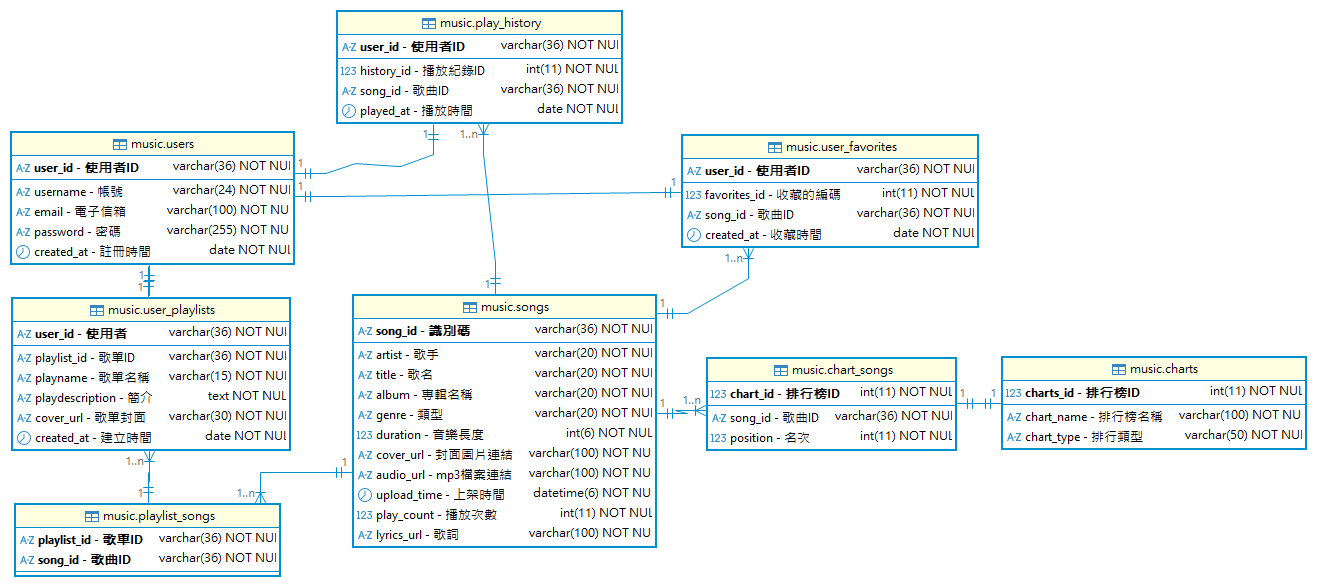
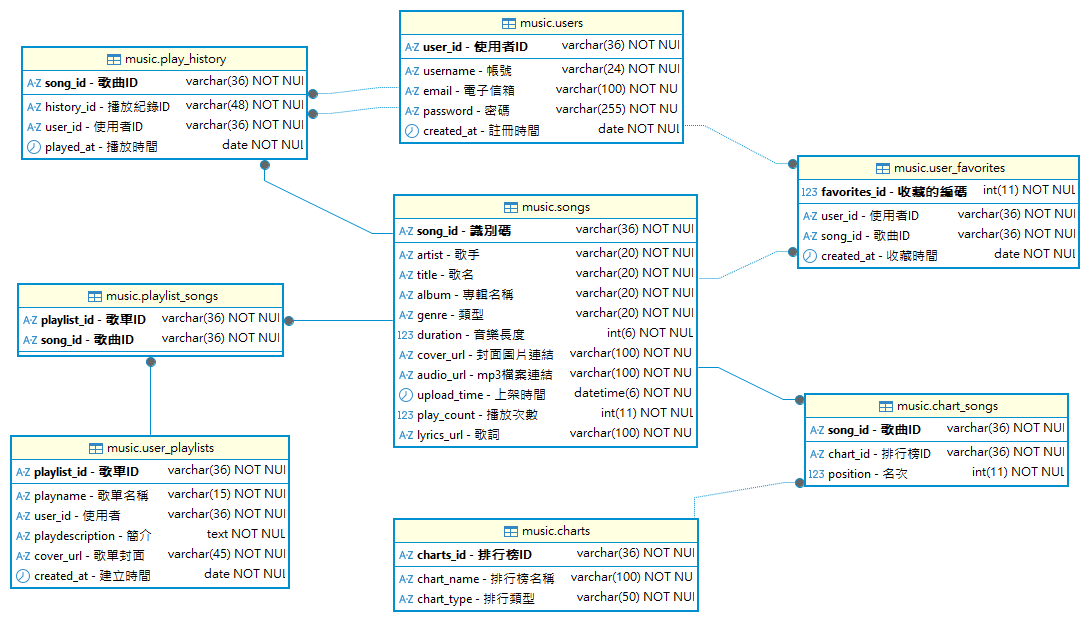
'修改ddl'

diff --git a/.github/instructions/mysql.instructions.md b/.github/instructions/mysql.instructions.md
@@ -6,75 +6,75 @@ applyTo: '*.sql'
 
 # MYSQL 的資料庫 DDL
 ```sql
-CREATE TABLE users (
-    user_id VARCHAR(36) NOT NULL PRIMARY KEY COMMENT '使用者ID',
-    username VARCHAR(24) NOT NULL COMMENT '帳號',
-    email VARCHAR(100) NOT NULL COMMENT '電子信箱',
-    password VARCHAR(255) NOT NULL COMMENT '密碼',
+CREATE TABLE music_users (
+    user_id    VARCHAR(36) NOT NULL PRIMARY KEY COMMENT '使用者ID',
+    username   VARCHAR(24) NOT NULL COMMENT '帳號',
+    email      VARCHAR(100) NOT NULL COMMENT '電子信箱',
+    password   VARCHAR(255) NOT NULL COMMENT '密碼',
     created_at DATE NOT NULL COMMENT '註冊時間'
 );
 
-CREATE TABLE songs (
-    song_id VARCHAR(36) NOT NULL PRIMARY KEY COMMENT '歌曲ID',
-    artist VARCHAR(20) NOT NULL COMMENT '歌手',
-    title VARCHAR(20) NOT NULL COMMENT '歌名',
-    album VARCHAR(20) NOT NULL COMMENT '專輯名稱',
-    genre VARCHAR(20) NOT NULL COMMENT '類型',
-    duration INT(6) NOT NULL COMMENT '音樂長度',
-    cover_url VARCHAR(100) NOT NULL COMMENT '封面圖片連結',
-    audio_url VARCHAR(100) NOT NULL COMMENT 'mp3檔案連結',
-    upload_time DATETIME NOT NULL COMMENT '上傳時間',
-    play_count INT(11) NOT NULL COMMENT '播放次數',
-    lyrics_url VARCHAR(100) NOT NULL COMMENT '歌詞連結'
+CREATE TABLE music_songs (
+    song_id     VARCHAR(36) NOT NULL PRIMARY KEY COMMENT '歌曲ID',
+    artist      VARCHAR(20) NOT NULL COMMENT '歌手',
+    title       VARCHAR(20) NOT NULL COMMENT '歌名',
+    album       VARCHAR(20) NOT NULL COMMENT '專輯名稱',
+    genre       VARCHAR(20) NOT NULL COMMENT '類型',
+    duration    INT(6) NOT NULL COMMENT '音樂長度',
+    cover_url   VARCHAR(100) NOT NULL COMMENT '封面圖片連結',
+    audio_url   VARCHAR(100) NOT NULL COMMENT 'mp3檔案連結',
+    upload_time DATETIME NOT NULL COMMENT '上架時間',
+    play_count  INT(11) NOT NULL COMMENT '播放次數',
+    lyrics_url  VARCHAR(100) NOT NULL COMMENT '歌詞'
 );
 
-CREATE TABLE play_history (
-    history_id INT(11) NOT NULL AUTO_INCREMENT PRIMARY KEY COMMENT '播放紀錄ID',
-    user_id VARCHAR(36) NOT NULL COMMENT '使用者ID',
-    song_id VARCHAR(36) NOT NULL COMMENT '歌曲ID',
-    played_at DATE NOT NULL COMMENT '播放時間',
-    FOREIGN KEY (user_id) REFERENCES music_users(user_id),
-    FOREIGN KEY (song_id) REFERENCES music_songs(song_id)
-);
-
-CREATE TABLE user_favorites (
-    favorites_id INT(11) NOT NULL AUTO_INCREMENT PRIMARY KEY COMMENT '收藏的編碼',
-    user_id VARCHAR(36) NOT NULL COMMENT '使用者ID',
-    song_id VARCHAR(36) NOT NULL COMMENT '歌曲ID',
-    created_at DATE NOT NULL COMMENT '收藏時間'
-    FOREIGN KEY (user_id) REFERENCES music_users(user_id),
-    FOREIGN KEY (song_id) REFERENCES music_songs(song_id)
-);
-
-CREATE TABLE user_playlists (
-    playlist_id VARCHAR(36) NOT NULL PRIMARY KEY COMMENT '歌單ID',
-    user_id VARCHAR(36) NOT NULL COMMENT '使用者',
-    playname VARCHAR(15) NOT NULL COMMENT '歌單名稱',
-    playdescription TEXT NOT NULL COMMENT '簡介',
-    cover_url VARCHAR(30) NOT NULL COMMENT '歌單封面',
-    created_at DATE NOT NULL COMMENT '建立時間',
+CREATE TABLE music_user_playlists (
+    playlist_id    VARCHAR(36) NOT NULL PRIMARY KEY COMMENT '歌單ID',
+    playname       VARCHAR(15) NOT NULL COMMENT '歌單名稱',
+    user_id        VARCHAR(36) NOT NULL COMMENT '使用者ID',
+    playdescription TEXT COMMENT '簡介',
+    cover_url      VARCHAR(45) NOT NULL COMMENT '歌單封面',
+    created_at     DATE NOT NULL COMMENT '建立時間',
     FOREIGN KEY (user_id) REFERENCES music_users(user_id)
 );
 
-CREATE TABLE playlist_songs (
+CREATE TABLE music_playlist_songs (
     playlist_id VARCHAR(36) NOT NULL COMMENT '歌單ID',
-    song_id VARCHAR(36) NOT NULL COMMENT '歌曲ID',
+    song_id     VARCHAR(36) NOT NULL COMMENT '歌曲ID',
     PRIMARY KEY (playlist_id, song_id),
     FOREIGN KEY (playlist_id) REFERENCES music_user_playlists(playlist_id),
     FOREIGN KEY (song_id) REFERENCES music_songs(song_id)
 );
 
-CREATE TABLE charts (
-    charts_id VARCHAR(36) NOT NULL PRIMARY KEY COMMENT '排行榜ID',
-    chart_name VARCHAR(100) NOT NULL COMMENT '排行榜名稱',
+CREATE TABLE music_play_history (
+    song_id    VARCHAR(36) NOT NULL COMMENT '歌曲ID',
+    history_id VARCHAR(48) NOT NULL PRIMARY KEY COMMENT '播放紀錄ID',
+    user_id    VARCHAR(36) NOT NULL COMMENT '使用者ID',
+    played_at  DATE NOT NULL COMMENT '播放時間',
+    FOREIGN KEY (song_id) REFERENCES music_songs(song_id),
+    FOREIGN KEY (user_id) REFERENCES music_users(user_id)
+);
+
+CREATE TABLE music_user_favorites (
+    favorites_id INT(11) NOT NULL AUTO_INCREMENT PRIMARY KEY COMMENT '收藏的編碼',
+    user_id      VARCHAR(36) NOT NULL COMMENT '使用者ID',
+    song_id      VARCHAR(36) NOT NULL COMMENT '歌曲ID',
+    created_at   DATE NOT NULL COMMENT '收藏時間',
+    FOREIGN KEY (user_id) REFERENCES music_users(user_id),
+    FOREIGN KEY (song_id) REFERENCES music_songs(song_id)
+);
+
+CREATE TABLE music_charts (
+    chart_id   VARCHAR(36) NOT NULL PRIMARY KEY COMMENT '排行榜ID',
+    chart_name VARCHAR(20) NOT NULL COMMENT '排行榜名稱',
     chart_type VARCHAR(50) NOT NULL COMMENT '排行榜型'
 );
 
-CREATE TABLE chart_songs (
-    chart_id VARCHAR(36) NOT NULL COMMENT '排行榜ID',
-    song_id VARCHAR(36) NOT NULL COMMENT '歌曲ID',
-    position INT(11) NOT NULL COMMENT '名次',
-    PRIMARY KEY (chart_id, song_id),
-    FOREIGN KEY (chart_id) REFERENCES music_charts(charts_id),
-    FOREIGN KEY (song_id) REFERENCES music_songs(song_id)
+CREATE TABLE music_chart_songs (
+    song_id   VARCHAR(36) NOT NULL COMMENT '歌曲ID',
+    chart_id  VARCHAR(36) NOT NULL COMMENT '排行榜ID',
+    position  INT(11) NOT NULL COMMENT '名次',
+    PRIMARY KEY (song_id, chart_id),
+    FOREIGN KEY (song_id) REFERENCES music_songs(song_id),
+    FOREIGN KEY (chart_id) REFERENCES music_charts(chart_id)
 );

diff --git a/.github/instructions/php.instructions.md b/.github/instructions/php.instructions.md
@@ -20,75 +20,75 @@ JSON
 
 # MYSQL 的資料庫 DDL
 ```sql
-CREATE TABLE users (
-    user_id VARCHAR(36) NOT NULL PRIMARY KEY COMMENT '使用者ID',
-    username VARCHAR(24) NOT NULL COMMENT '帳號',
-    email VARCHAR(100) NOT NULL COMMENT '電子信箱',
-    password VARCHAR(255) NOT NULL COMMENT '密碼',
+CREATE TABLE music_users (
+    user_id    VARCHAR(36) NOT NULL PRIMARY KEY COMMENT '使用者ID',
+    username   VARCHAR(24) NOT NULL COMMENT '帳號',
+    email      VARCHAR(100) NOT NULL COMMENT '電子信箱',
+    password   VARCHAR(255) NOT NULL COMMENT '密碼',
     created_at DATE NOT NULL COMMENT '註冊時間'
 );
 
-CREATE TABLE songs (
-    song_id VARCHAR(36) NOT NULL PRIMARY KEY COMMENT '歌曲ID',
-    artist VARCHAR(20) NOT NULL COMMENT '歌手',
-    title VARCHAR(20) NOT NULL COMMENT '歌名',
-    album VARCHAR(20) NOT NULL COMMENT '專輯名稱',
-    genre VARCHAR(20) NOT NULL COMMENT '類型',
-    duration INT(6) NOT NULL COMMENT '音樂長度',
-    cover_url VARCHAR(100) NOT NULL COMMENT '封面圖片連結',
-    audio_url VARCHAR(100) NOT NULL COMMENT 'mp3檔案連結',
-    upload_time DATETIME NOT NULL COMMENT '上傳時間',
-    play_count INT(11) NOT NULL COMMENT '播放次數',
-    lyrics_url VARCHAR(100) NOT NULL COMMENT '歌詞連結'
+CREATE TABLE music_songs (
+    song_id     VARCHAR(36) NOT NULL PRIMARY KEY COMMENT '歌曲ID',
+    artist      VARCHAR(20) NOT NULL COMMENT '歌手',
+    title       VARCHAR(20) NOT NULL COMMENT '歌名',
+    album       VARCHAR(20) NOT NULL COMMENT '專輯名稱',
+    genre       VARCHAR(20) NOT NULL COMMENT '類型',
+    duration    INT(6) NOT NULL COMMENT '音樂長度',
+    cover_url   VARCHAR(100) NOT NULL COMMENT '封面圖片連結',
+    audio_url   VARCHAR(100) NOT NULL COMMENT 'mp3檔案連結',
+    upload_time DATETIME NOT NULL COMMENT '上架時間',
+    play_count  INT(11) NOT NULL COMMENT '播放次數',
+    lyrics_url  VARCHAR(100) NOT NULL COMMENT '歌詞'
 );
 
-CREATE TABLE play_history (
-    history_id VARCHAR(48) NOT NULL PRIMARY KEY COMMENT '播放紀錄ID',
-    user_id VARCHAR(36) NOT NULL COMMENT '使用者ID',
-    song_id VARCHAR(36) NOT NULL COMMENT '歌曲ID',
-    played_at DATE NOT NULL COMMENT '播放時間',
-    FOREIGN KEY (user_id) REFERENCES music_users(user_id),
-    FOREIGN KEY (song_id) REFERENCES music_songs(song_id)
-);
-
-CREATE TABLE user_favorites (
-    favorites_id INT(11) NOT NULL AUTO_INCREMENT PRIMARY KEY COMMENT '收藏的編碼',
-    user_id VARCHAR(36) NOT NULL COMMENT '使用者ID',
-    song_id VARCHAR(36) NOT NULL COMMENT '歌曲ID',
-    created_at DATE NOT NULL COMMENT '收藏時間'
-    FOREIGN KEY (user_id) REFERENCES music_users(user_id),
-    FOREIGN KEY (song_id) REFERENCES music_songs(song_id)
-);
-
-CREATE TABLE user_playlists (
-    playlist_id VARCHAR(36) NOT NULL PRIMARY KEY COMMENT '歌單ID',
-    user_id VARCHAR(36) NOT NULL COMMENT '使用者',
-    playname VARCHAR(15) NOT NULL COMMENT '歌單名稱',
-    playdescription TEXT NOT NULL COMMENT '簡介',
-    cover_url VARCHAR(30) NOT NULL COMMENT '歌單封面',
-    created_at DATE NOT NULL COMMENT '建立時間',
+CREATE TABLE music_user_playlists (
+    playlist_id    VARCHAR(36) NOT NULL PRIMARY KEY COMMENT '歌單ID',
+    playname       VARCHAR(15) NOT NULL COMMENT '歌單名稱',
+    user_id        VARCHAR(36) NOT NULL COMMENT '使用者ID',
+    playdescription TEXT COMMENT '簡介',
+    cover_url      VARCHAR(45) NOT NULL COMMENT '歌單封面',
+    created_at     DATE NOT NULL COMMENT '建立時間',
     FOREIGN KEY (user_id) REFERENCES music_users(user_id)
 );
 
-CREATE TABLE playlist_songs (
+CREATE TABLE music_playlist_songs (
     playlist_id VARCHAR(36) NOT NULL COMMENT '歌單ID',
-    song_id VARCHAR(36) NOT NULL COMMENT '歌曲ID',
+    song_id     VARCHAR(36) NOT NULL COMMENT '歌曲ID',
     PRIMARY KEY (playlist_id, song_id),
     FOREIGN KEY (playlist_id) REFERENCES music_user_playlists(playlist_id),
     FOREIGN KEY (song_id) REFERENCES music_songs(song_id)
 );
 
-CREATE TABLE charts (
-    charts_id VARCHAR(36) NOT NULL PRIMARY KEY COMMENT '排行榜ID',
-    chart_name VARCHAR(100) NOT NULL COMMENT '排行榜名稱',
+CREATE TABLE music_play_history (
+    song_id    VARCHAR(36) NOT NULL COMMENT '歌曲ID',
+    history_id VARCHAR(48) NOT NULL PRIMARY KEY COMMENT '播放紀錄ID',
+    user_id    VARCHAR(36) NOT NULL COMMENT '使用者ID',
+    played_at  DATE NOT NULL COMMENT '播放時間',
+    FOREIGN KEY (song_id) REFERENCES music_songs(song_id),
+    FOREIGN KEY (user_id) REFERENCES music_users(user_id)
+);
+
+CREATE TABLE music_user_favorites (
+    favorites_id INT(11) NOT NULL AUTO_INCREMENT PRIMARY KEY COMMENT '收藏的編碼',
+    user_id      VARCHAR(36) NOT NULL COMMENT '使用者ID',
+    song_id      VARCHAR(36) NOT NULL COMMENT '歌曲ID',
+    created_at   DATE NOT NULL COMMENT '收藏時間',
+    FOREIGN KEY (user_id) REFERENCES music_users(user_id),
+    FOREIGN KEY (song_id) REFERENCES music_songs(song_id)
+);
+
+CREATE TABLE music_charts (
+    chart_id   VARCHAR(36) NOT NULL PRIMARY KEY COMMENT '排行榜ID',
+    chart_name VARCHAR(20) NOT NULL COMMENT '排行榜名稱',
     chart_type VARCHAR(50) NOT NULL COMMENT '排行榜型'
 );
 
-CREATE TABLE chart_songs (
-    chart_id VARCHAR(36) NOT NULL COMMENT '排行榜ID',
-    song_id VARCHAR(36) NOT NULL COMMENT '歌曲ID',
-    position INT(11) NOT NULL COMMENT '名次',
-    PRIMARY KEY (chart_id, song_id),
-    FOREIGN KEY (chart_id) REFERENCES music_charts(charts_id),
-    FOREIGN KEY (song_id) REFERENCES music_songs(song_id)
+CREATE TABLE music_chart_songs (
+    song_id   VARCHAR(36) NOT NULL COMMENT '歌曲ID',
+    chart_id  VARCHAR(36) NOT NULL COMMENT '排行榜ID',
+    position  INT(11) NOT NULL COMMENT '名次',
+    PRIMARY KEY (song_id, chart_id),
+    FOREIGN KEY (song_id) REFERENCES music_songs(song_id),
+    FOREIGN KEY (chart_id) REFERENCES music_charts(chart_id)
 );
